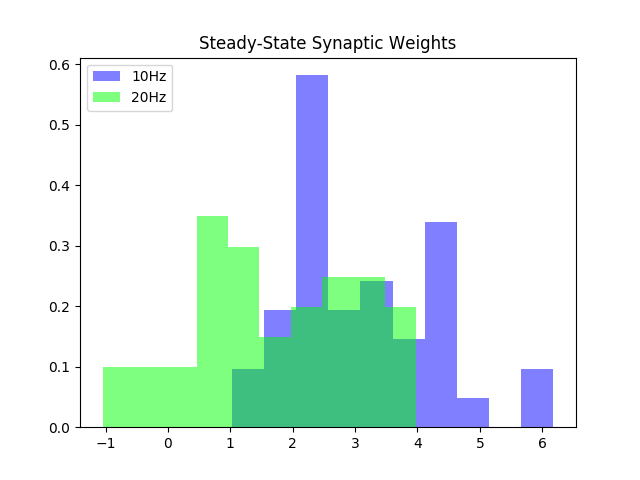
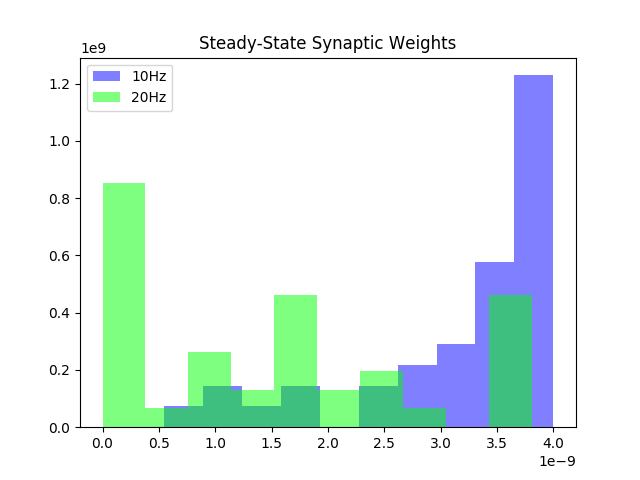
this could be it

diff --git a/coursework3/cw3.py b/coursework3/cw3.py
@@ -44,7 +44,7 @@ def A1():
 
         for i in range (len(times)):
             if (i == 0):
-                V[i] = v_rest
+                V[i] = 0
             else:
                 # v(i-1) + dv/dt * dt
                 V[i] = V[i-1] + ((E_L - V[i-1] + (m_resistance * I_e)) / m_tau) * dt
@@ -70,7 +70,7 @@ def A1():
     v_threshold = -40 * mV
     m_resistance = 10 * ohms # m_omega
 
-    I_e = 3.1  # nA
+    I_e = 3.1 * nA # nA
 
     duration = 1 * sec
     dt = 0.25 * ms
@@ -194,34 +194,11 @@ def B1():
         spikes = np.zeros(40)
         for s in range (len(spikes)):
             spike = random.uniform(0.00, 1.00)
-            #spike = random.random()
-            
             if (spike < r*dt):
                 spikes[s] = 1
             else:
                 spikes[s] = 0
         return spikes
-
-    # for each time
-    def simulateNeuron(ss, gs, volt):
-        current = np.zeros(40)
-        for c in range (40):
-            current[c] =  R_m * gs[c] * ss[c] * (E_s - volt)
-        # do everything but for all 40 synapses at the same tie
-
-        # get one votlage
-        nextVolt = volt + (E_L - volt + sum(current))/ m_tau * dt
-
-        # check if spike 
-        if (nextVolt >= v_threshold):
-            nextVolt = v_rest
-            #_12[i] = S_12[i-1] + P
-
-        else :
-            pass
-            # S_12[i] = updateSynapse(S_12[i-1])
-
-        return nextVolt
 
     def getVoltagesB1():
         fire_rate_30 = 0
@@ -304,7 +281,7 @@ def B2_on():
         plt.title('Steady-State Synaptic Weights')
         plt.hist(g_is, density=True, bins=10)
         #plt.show()
-        plt.savefig('ssss1')
+        plt.savefig('ssss2')
 
     def plotAvgFireRate300(fires):
         timesBins = np.arange(0, 300, 10)
@@ -321,7 +298,7 @@ def B2_on():
         plt.plot(timesBins, fires)
         
         # plt.show()
-        plt.savefig('firerate300_a2')
+        plt.savefig('firerate300')
 
     def plotAvgFireRate30(fires):
         print(fires)
@@ -457,14 +434,14 @@ def B2_on():
 
     fire_rate_300, fire_rate_30 = getVoltages40Syn_On()
 
-    print("-----PARTB QUESTION2 HISTOGRAM-----")
-    plotSynWeightHist(g_is)
+    #print("-----PARTB QUESTION2 HISTOGRAM-----")
+    #plotSynWeightHist(g_is)
     
     print("-----PARTB QUESTION2 firing rate 300-----")
     #plotAvgFireRate300(fire_rate_300)
     
-    #print(fire_rate_30)
-    #print(fire_rate_30/30)
+    print(fire_rate_30)
+    print(fire_rate_30/30)
     #plotAvgFireRate30(fire_rate_30)
     # plotVoltage(times, V)
     
@@ -519,12 +496,11 @@ def B2_Off_with_On_Results(g_avg):
         # we have variables for the 300s need one for the last 30s
         #fire_rate_30 = np.zeros(30)
         fire_rate_30 = 0
-        #fire_30_index = 0
-        #fire_30_count = 0
+
         for i in range (len(times)):
             # 40 spikes for 40 synapses
             spike_train = genSpikeTrain()
-            current = 0
+            current = np.zeros(40)
             if (i != 0):
                 for s in range (1,len(s_i)):
                     if (spike_train[s] == 1):
@@ -533,11 +509,9 @@ def B2_Off_with_On_Results(g_avg):
                     else :
                         s_i[s] = s_i[s] + ((-s_i[s] / s_tau) * dt)
                        
-                    current = current + g_is[s]*s_i[s]
+                    current[s] = g_is[s]*s_i[s]
             # current[s] =  R_m * current * (E_s - V[i-1]) # THIS IS QUESTIONABLE
-            current = R_m * current * (E_s - V[i-1])
-            # V[i] = V[i-1] + (E_L - V[i-1] + R_m + current) * dt / m_tau
-            V[i] = V[i-1] + (E_L - V[i-1] + current) * dt / m_tau
+            V[i] = V[i-1] + (E_L - V[i-1] + np.sum(current) * R_m * (E_s - V[i-1])) * dt / m_tau
             if (V[i] >= v_threshold):
                 V[i] = v_rest
                 if (times[i] >= 270.0):
@@ -564,7 +538,7 @@ def B2_Off_with_On_Results(g_avg):
     m_tau = 10 * ms
 
     s_tau = 2 * ms  # decay time constant
-    gbar_i = 4     # initial peak conductance nanaSeimens (strength)
+    gbar_i = 4 * nS     # initial peak conductance nanaSeimens (strength)
     E_s = 0
     ds = 0.5
 
@@ -668,10 +642,10 @@ def B3_On_10(r):
                 for j in range (40):
                     pre_post_diff = post_syn_spike_t - pre_syn_spike_t[j]
                     g_is[j] = g_is[j] + updateGi(pre_post_diff)
-                    if (g_is[s] < 0):
-                        g_is[s] = 0
-                    if (g_is[s] > 4 * nS):
-                        g_is[s] = 4 * nS
+                    if (g_is[j] < 0):
+                        g_is[j] = 0
+                    if (g_is[j] > 4 * nS):
+                        g_is[j] = 4 * nS
                 if (times[i] >= 270.0):
                     fire_rate_30 += 1
         return fire_rate_30
@@ -716,7 +690,7 @@ def B3_On_10(r):
     fire_rate_30 = getVoltages40Syn_On()
     print(fire_rate_30)
     print(fire_rate_30/30)
-    rate = fire_rate_30/30
+    rate = fire_rate_30
     return rate, g_is
     
 
@@ -840,13 +814,13 @@ def B3_Off_10(r):
     fire_rate_30 = getVoltages40Syn_Off()
     print(fire_rate_30)
     print(fire_rate_30/30)
-    rate = fire_rate_30/30
-    return rate
+    rate = fire_rate_30
+    return rate, gis
 
 def B4(B):
-    def genSpikeTrain():
+    def genSpikeTrain(t):
         spikes = np.zeros(40)
-        value = r0 + (B * m.sin(2 * m.pi * f * dt))
+        value = r0 + (B * m.sin(2 * m.pi * f * t))
         for s in range (len(spikes)):
             spike = random.uniform(0.00, 1.00)
             #spike = random.random()
@@ -880,7 +854,7 @@ def B4(B):
     def getVoltages40Syn_On():
         fire_rate_30 = 0
         for i in range (len(times)):
-            spike_train = genSpikeTrain()
+            spike_train = genSpikeTrain(times[i])
             current = 0
             if (i != 0):
                 for s in range (1,len(s_i)):
@@ -910,10 +884,10 @@ def B4(B):
                 for j in range (40):
                     pre_post_diff = post_syn_spike_t - pre_syn_spike_t[j]
                     g_is[j] = g_is[j] + updateGi(pre_post_diff)
-                    if (g_is[s] < 0):
-                        g_is[s] = 0
-                    if (g_is[s] > 4 * nS):
-                        g_is[s] = 4 * nS
+                    if (g_is[j] < 0):
+                        g_is[j] = 0
+                    if (g_is[j] > 4 * nS):
+                        g_is[j] = 4 * nS
                 if (times[i] >= 270.0):
                     fire_rate_30 += 1
         return fire_rate_30
@@ -983,16 +957,19 @@ def B4(B):
     r0 = 20  * Hz
     f = 10 * Hz
 
-
+    
     # fire_rate_30 = getVoltages40Syn_Off()
     fire_rate_30 = getVoltages40Syn_On()
+    print(B)
+    print(fire_rate_30)
+    print(fire_rate_30/30)
 
     return g_is
 
 # MAIN ----------------------------------------------------------
 if __name__ == "__main__":
     print("-----PartA Question1-----")
-    # A1()
+    #A1()
 
     # ----------------------------------------------------------------------------------------------------------------------
     print("-----PARTA QUESTION2-----")
@@ -1004,7 +981,7 @@ if __name__ == "__main__":
 
     # ----------------------------------------------------------------------------------------------------------------------
     print("-----PARTB QUESTION2 STDP ON-----")
-    g_is_from_on = B2_on()
+    #g_is_from_on = B2_on()
     
     # print("-----PARTB QUESTION2 HISTOGRAM-----")
     # plt.hist(g_is)
@@ -1019,9 +996,9 @@ if __name__ == "__main__":
     #print("-----PARTB QUESTION2 FIRING RATE OF POST NEURON 30 Seconds-----")
 
     print("-----PARTB QUESTION2 STDP OFF-----")
-    #g_avg = np.mean(g_is_from_on)
-    #print(g_avg)
-    #B2_Off_with_On_Results(g_avg)
+    # g_avg = np.mean(g_is_from_on)
+    # print(g_avg)
+    # B2_Off_with_On_Results(g_avg)
 
     
     print("-----PARTB QUESTION2 FIRING RATE OF POST NEURON OFF 30 Seconds-----")
@@ -1056,12 +1033,13 @@ if __name__ == "__main__":
     # rates.append(rate)
     # print(rates)
 
-    # rates.append(20)
+    # add the total of fires of 5 simulations
+    # rates.append(47)
+    # rates.append(32)
+    # rates.append(13)
     # rates.append(9)
-    # rates.append(6)
-    # rates.append(2)
-    # rates.append(4)
-    # rates.append(2)
+    # rates.append(8)
+    # rates.append(7)
 
     # rates[:] = [f / 5 for f in rates]
     # rates[:] = [f / 30 for f in rates]
@@ -1095,25 +1073,29 @@ if __name__ == "__main__":
     # r = 20  * Hz
     # rate, gis = B3_Off_10(r)
     # rates_off.append(rate)
+    # print(rates_off)
 
-    # rates_off.append(431)
-    # rates_off.append(1035)
-    # rates_off.append(2025)
-    # rates_off.append(3246)
-    # rates_off.append(4593)
-    # rates_off.append(5989)
+    # rates_off.append(362)
+    # rates_off.append(1117)
+    # rates_off.append(2310)
+    # rates_off.append(3709)
+    # rates_off.append(5480)
+    # rates_off.append(7294)
 
     # rates_off[:] = [f / 5 for f in rates_off]
     # rates_off[:] = [f / 30 for f in rates_off]
 
     # x = np.arange(10,21,2)
 
-    # plt.plot(x, rates)
-    # plt.plot(x, rates_off)
+    # plt.plot(x, rates, label="STDP ON")
+    # plt.plot(x, rates_off, label="STDP OFF")
+
 
     # plt.title('Mean Output Firing Rate based on Input Firing Rate')
     # plt.xlabel('Input Firing Rate(Hz)')
     # plt.ylabel('Output Firing Rate(Hz)')
+
+    # plt.legend(loc="upper left")
     # plt.savefig('B3_outputinput_onoff')
 
     print("-----PARTB QUESTION3 ssss distribution 10/20Hz-----")
@@ -1133,8 +1115,8 @@ if __name__ == "__main__":
 
 
     print("-----PARTB QUESTION4-----")
-    # gs_mean = []
-    # gs_std = []
+    gs_mean = []
+    gs_std = []
 
     # B = 0
     # results = B4(B)
@@ -1183,7 +1165,26 @@ if __name__ == "__main__":
     # plt.plot(bs, gs_std, label="Standard Deviation")
 
     # plt.legend(loc="upper left")
-    # plt.savefig('B4 ssssballon6')
+    # plt.savefig('B4 ssss4')
+
+    print("-----PARTB QUESTION4 DISTRIBUTION-----")
+
+    B = 0
+    gs0 = B4(B)
+
+    # B = 10
+    # gs10 = B4(B)
+
+    B = 20
+    gs20 = B4(B)
+
+
+    plt.title('Steady-State Synaptic Weights')
+    plt.hist(gs0, density=True, bins=10, fc=(0, 0, 1, 0.5), label="0Hz")
+    # plt.hist(gs20, density=True, bins=10, fc=(1, 0, 0, 0.5), label="10Hz")
+    plt.hist(gs20, density=True, bins=10, fc=(0, 1, 0, 0.5), label="20Hz")
+    plt.legend(loc="upper left")
+    plt.savefig('B4 ssss_020_2')
 
 
      
